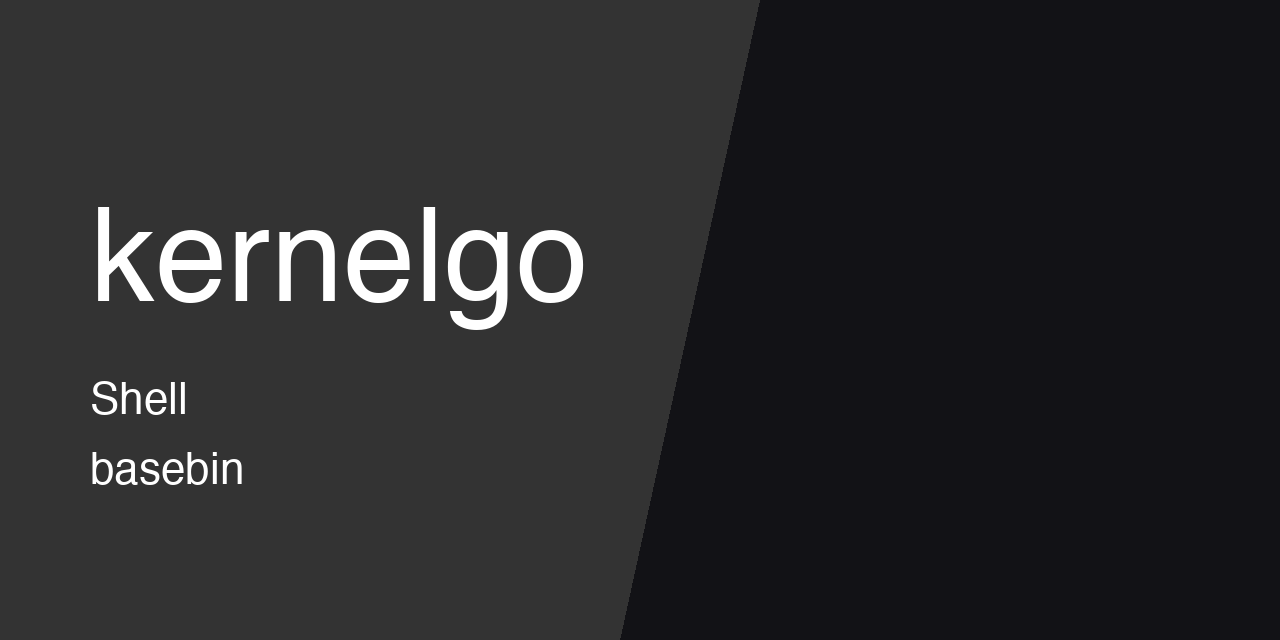
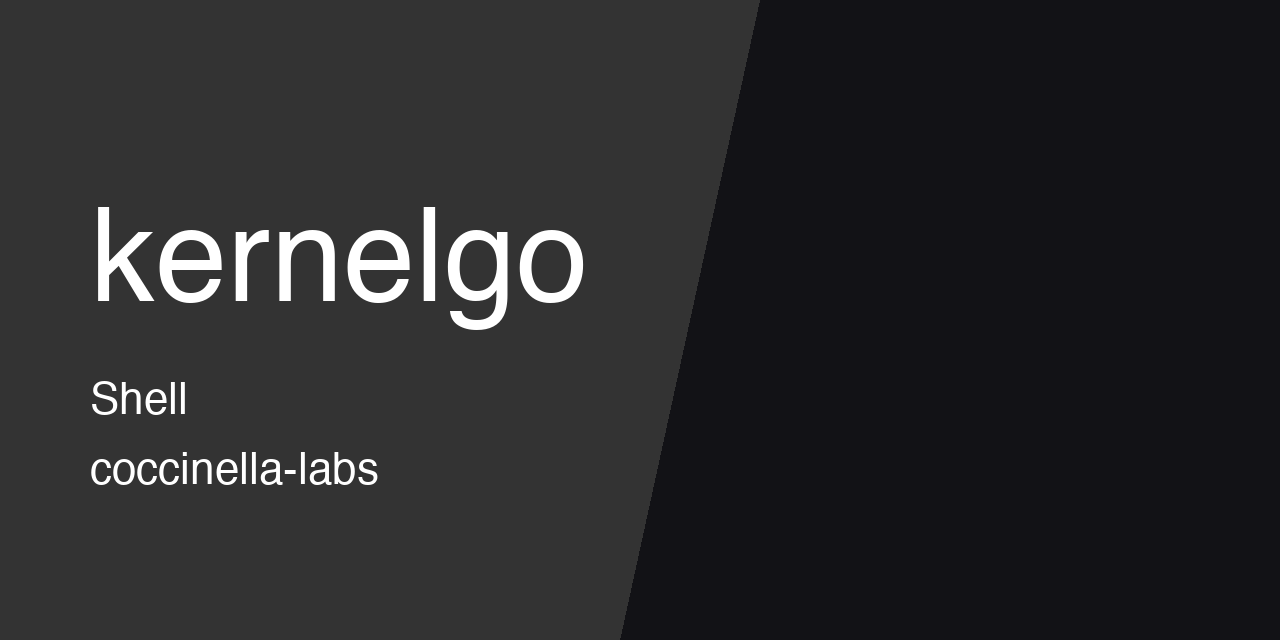
[docs] move thumbnail to coccinella-labs

Changed region(s): [[0.0625, 0.7188, 0.3125, 0.7812]]

diff --git a/README.md b/README.md
@@ -1,5 +1,5 @@
 <p align="center">
-  <img src="https://raw.githubusercontent.com/basebin/kernelgo/main/.github/assets/thumbnail.png" alt="kernelgo" width="100%">
+  <img src="https://raw.githubusercontent.com/Coccinella-Labs/kernelgo/main/.github/assets/thumbnail.png" alt="kernelgo" width="100%">
 </p>
 
 # macOS Kernel Tool (Go)
